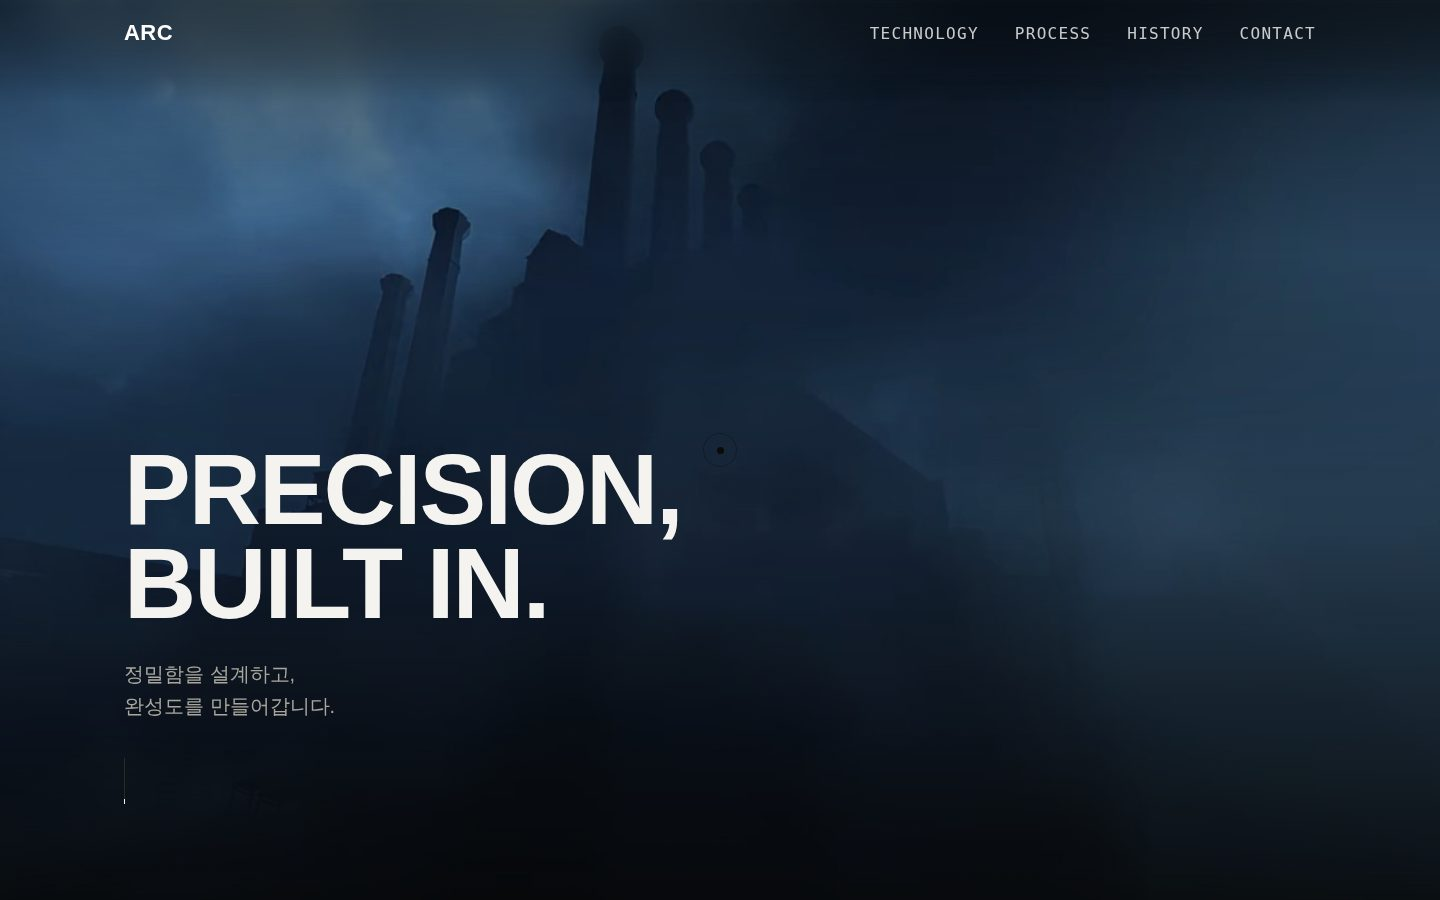
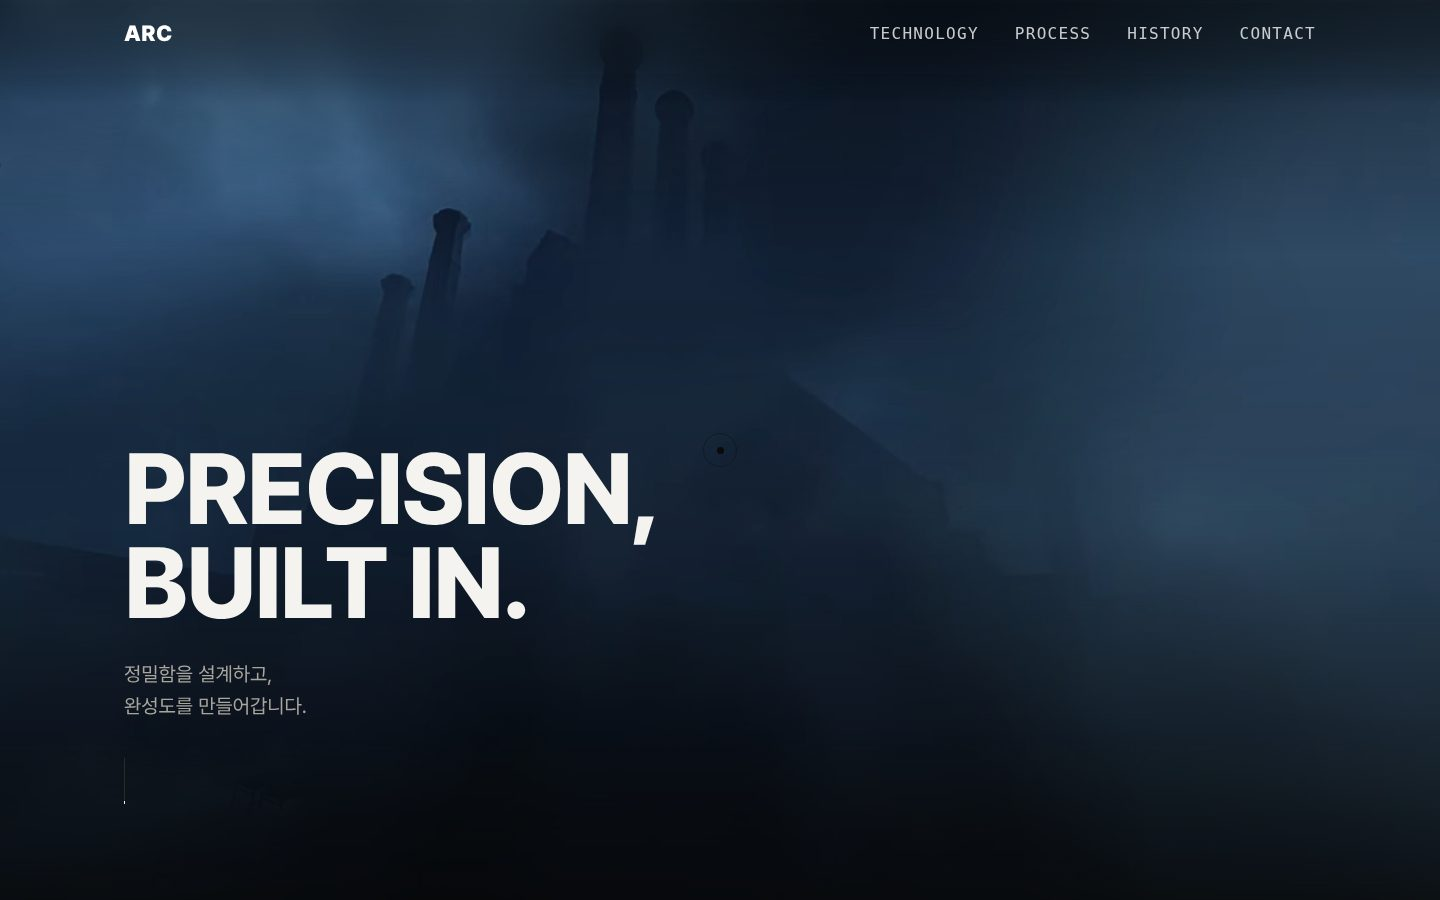
썸네일 교체

diff --git a/app.js b/app.js
@@ -8,6 +8,7 @@
       return { "&": "&amp;", "<": "&lt;", ">": "&gt;", '"': "&quot;", "'": "&#39;" }[c];
     });
   };
+  var THUMB_V = "?v=5"; /* 썸네일을 바꾸면 숫자를 올려주세요 */
   var ICON_DL = '<svg viewBox="0 0 16 16" fill="none" stroke="currentColor" stroke-width="1.5" stroke-linecap="round" stroke-linejoin="round"><path d="M8 2.5v8M4.5 7L8 10.5 11.5 7M3 13.5h10"/></svg>';
   var ICON_OUT = '<svg viewBox="0 0 16 16" fill="none" stroke="currentColor" stroke-width="1.5" stroke-linecap="round" stroke-linejoin="round"><path d="M9 3h4v4M13 3L7.5 8.5M11 9.5V13H3V5h3.5"/></svg>';
 
@@ -49,7 +50,7 @@
     gallery.innerHTML = P.map(function (p, i) {
       return (
         '<article class="card" data-cat="' + esc(p.category) + '">' +
-          '<div class="card__cover"><img src="' + esc(p.thumb) + '" alt="' + esc(p.name) + ' 첫 화면" loading="' + (i < 6 ? "eager" : "lazy") + '"></div>' +
+          '<div class="card__cover"><img src="' + esc(p.thumb + THUMB_V) + '" alt="' + esc(p.name) + ' 첫 화면" loading="' + (i < 6 ? "eager" : "lazy") + '"></div>' +
           '<div class="card__body">' +
             '<div class="card__row">' +
               '<h3 class="card__title"><small>' + pad(i + 1) + '</small><a href="work.html?id=' + encodeURIComponent(p.id) + '">' + esc(p.name) + "</a></h3>" +
@@ -99,7 +100,7 @@
 
     root.innerHTML =
       '<nav class="crumbs" aria-label="현재 위치"><a href="./">' + esc(S.name || "Home") + '</a><span>/</span><a href="./#works">Works</a><span>/</span><b>' + esc(p.name) + "</b></nav>" +
-      '<div class="cover"><img src="' + esc(p.thumb) + '" alt=""></div>' +
+      '<div class="cover"><img src="' + esc(p.thumb + THUMB_V) + '" alt=""></div>' +
 
       '<header class="w-head">' +
         '<h1 class="head__title">' + esc(p.name) + "</h1>" +

diff --git a/index.html b/index.html
@@ -9,7 +9,7 @@
   <meta property="og:description" content="UX/UI 디자이너 정지원이 AI와 함께 만든 랜딩페이지 아카이브">
   <meta property="og:image" content="thumbs/vault.jpg">
   <link rel="stylesheet" href="https://cdn.jsdelivr.net/gh/orioncactus/pretendard@v1.3.9/dist/web/variable/pretendardvariable.min.css">
-  <link rel="stylesheet" href="style.css?v=4">
+  <link rel="stylesheet" href="style.css?v=5">
 </head>
 <body>
 
@@ -17,7 +17,7 @@
   <header class="head">
     <div class="head__icon" aria-hidden="true">🗂</div>
     <h1 class="head__title">AI Landing Page Archive</h1>
-    <p class="head__desc">AI와 함께 기획하고 디자인한 랜딩페이지를 한곳에 모았어요. 카드를 누르면 실제 사이트를 PC·모바일 화면으로 볼 수 있고, 파일도 받을 수 있어요.</p>
+    <p class="head__desc">AI와 함께 기획하고 디자인한 랜딩페이지를 한곳에 모았어요.<br>카드를 누르면 실제 사이트를 PC·모바일 화면으로 볼 수 있고, 파일도 받을 수 있어요.</p>
     <dl class="props">
       <div>
         <dt><svg viewBox="0 0 16 16" fill="none" stroke="currentColor" stroke-width="1.4"><circle cx="8" cy="5.5" r="2.5"/><path d="M3 13.5c.8-2.3 2.8-3.5 5-3.5s4.2 1.2 5 3.5"/></svg>Owner</dt>
@@ -52,8 +52,8 @@
   </footer>
 </main>
 
-<script src="projects.js?v=4"></script>
-<script src="app.js?v=4"></script>
+<script src="projects.js?v=5"></script>
+<script src="app.js?v=5"></script>
 <script>Archive.renderList();</script>
 </body>
 </html>

diff --git a/style.css b/style.css
@@ -77,7 +77,7 @@ button { font: inherit; letter-spacing: inherit; color: inherit; background: non
 .head { padding-top: clamp(56px, 9vw, 96px); padding-bottom: 32px; }
 .head__icon { font-size: 64px; line-height: 1.3; margin-bottom: 8px; }
 .head__title { font: var(--title-40-bold); letter-spacing: var(--tracking); margin: 0 0 8px; }
-.head__desc { color: var(--ink-2); margin: 0 0 24px; max-width: 640px; }
+.head__desc { color: var(--ink-2); margin: 0 0 24px; max-width: 720px; }
 
 .props { margin: 0; display: grid; gap: 2px; max-width: 640px; }
 .props > div { display: grid; grid-template-columns: 140px 1fr; align-items: center; min-height: 34px; border-radius: var(--radius-sm); }

diff --git a/work.html b/work.html
@@ -5,14 +5,14 @@
   <meta name="viewport" content="width=device-width, initial-scale=1">
   <title>프로젝트 — 정지원</title>
   <link rel="stylesheet" href="https://cdn.jsdelivr.net/gh/orioncactus/pretendard@v1.3.9/dist/web/variable/pretendardvariable.min.css">
-  <link rel="stylesheet" href="style.css?v=4">
+  <link rel="stylesheet" href="style.css?v=5">
 </head>
 <body>
 
 <main class="page" id="work"></main>
 
-<script src="projects.js?v=4"></script>
-<script src="app.js?v=4"></script>
+<script src="projects.js?v=5"></script>
+<script src="app.js?v=5"></script>
 <script>Archive.renderWork();</script>
 </body>
 </html>
